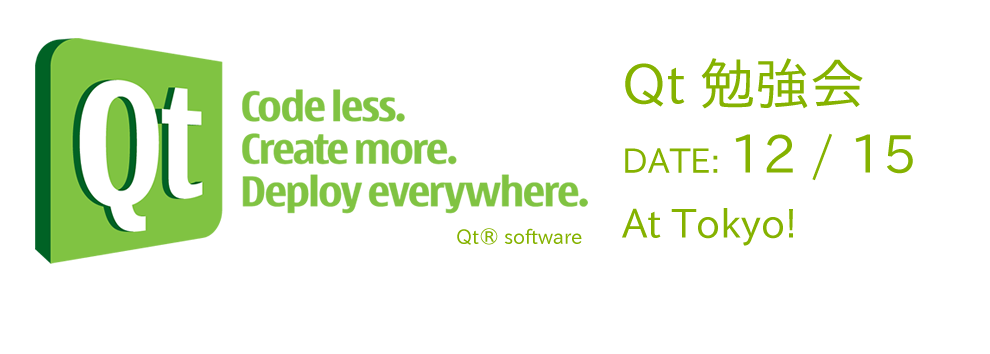
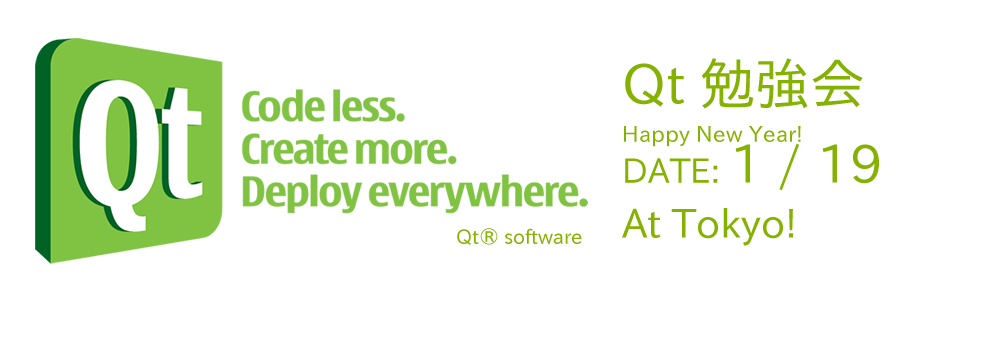
Update Workshop

Changed region(s): [[0.6364, 0.3418, 0.9394, 0.5282]]

diff --git a/index.html b/index.html
@@ -106,9 +106,13 @@ Visual Studio Add-In 1.2.0 for Qt 5リリース</a>
     </article>
     <article>
     <h2>EVENT</h2>
+    <p class="aList">
+    2013年1月 19日   
+<a href="#">第11回 関東Qt勉強会</a>
+</p>
             <p class="aList">
     2012年12月 15日   
-<a href="#">関東Qt勉強会</a>
+<a href="#">第10回関東Qt勉強会</a>
 </p>
         <p class="aList">
     2012年11月 12日~14日   
